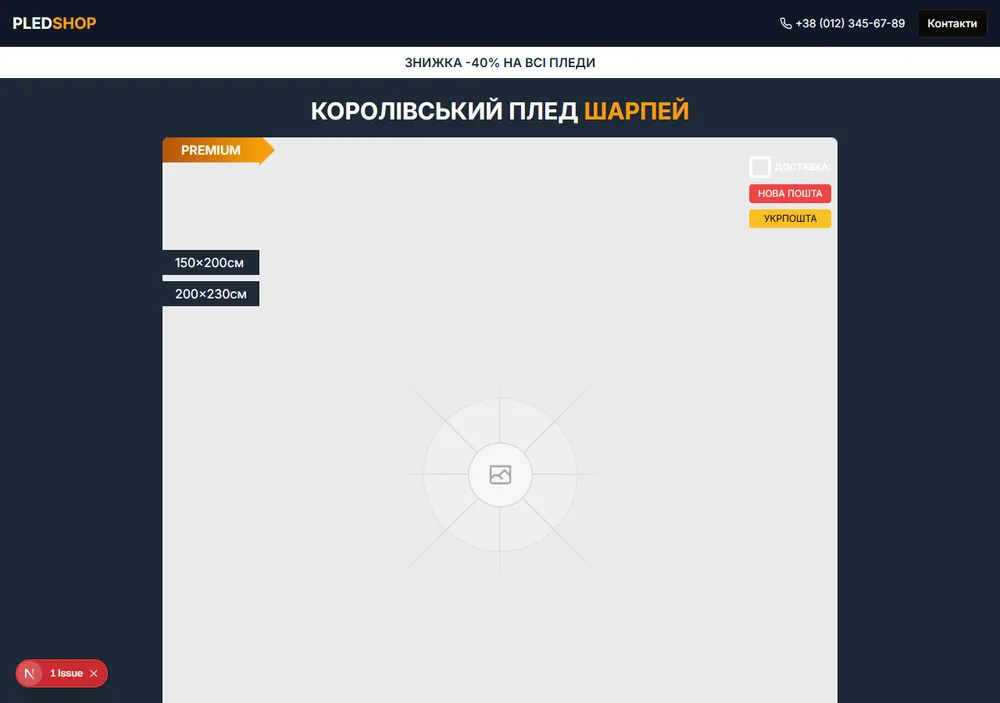
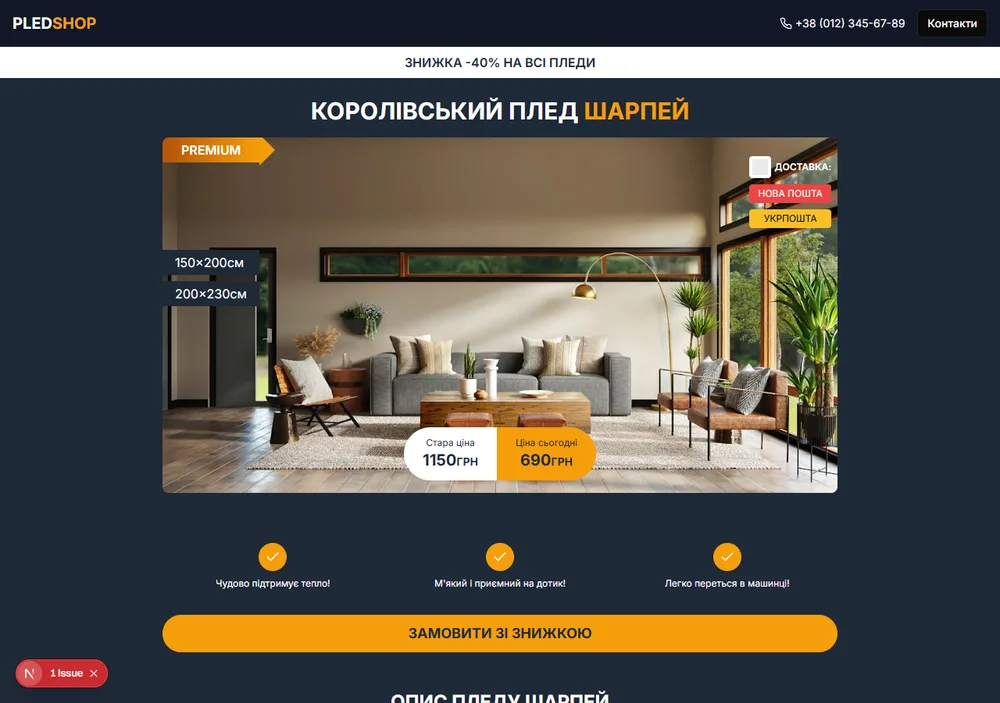
Галерея: 'Лєлєка' → '10 000 км до себе', повернуто посилання на реальні проєкти, оновлено скріншот PLEDSHOP з фото пледів

diff --git a/index.html b/index.html
@@ -205,20 +205,20 @@
     </p>
 
     <div class="works-grid reveal" data-delay="3">
-      <div class="work-card work-card--real">
-        <img src="./public/works/leleka.webp" alt="Реальний лендінг — Лєлєка" loading="lazy" />
+      <a href="https://crmcustoms.github.io/leleka/" target="_blank" rel="noopener" class="work-card work-card--real">
+        <img src="./public/works/leleka.webp" alt="Лендінг книги про подорожі — 10 000 км до себе" loading="lazy" />
         <span class="work-card__bar">
-          <span class="work-card__name">Лєлєка</span>
+          <span class="work-card__name">10 000 км до себе</span>
           <span class="work-card__tag deadline">реальний проєкт</span>
         </span>
-      </div>
-      <div class="work-card work-card--real">
-        <img src="./public/works/lendos.webp" alt="Реальний лендінг — PLEDSHOP" loading="lazy" />
+      </a>
+      <a href="#form" data-scroll class="work-card work-card--real">
+        <img src="./public/works/lendos.webp" alt="Лендінг магазину пледів — PLEDSHOP" loading="lazy" />
         <span class="work-card__bar">
           <span class="work-card__name">PLEDSHOP</span>
           <span class="work-card__tag deadline">реальний проєкт</span>
         </span>
-      </div>
+      </a>
       <div class="work-card">
         <img src="./public/works/cafe.webp" alt="Лендінг кав'ярні" loading="lazy" />
         <span class="work-card__bar">
